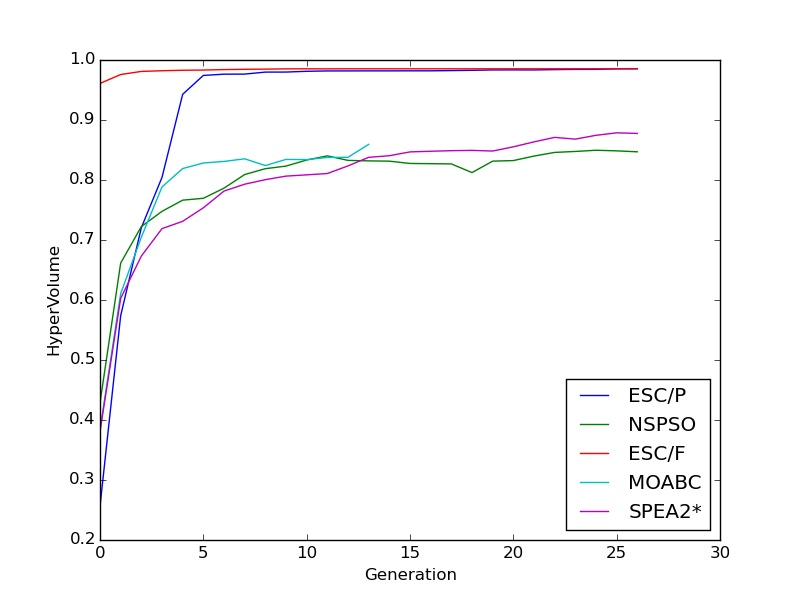
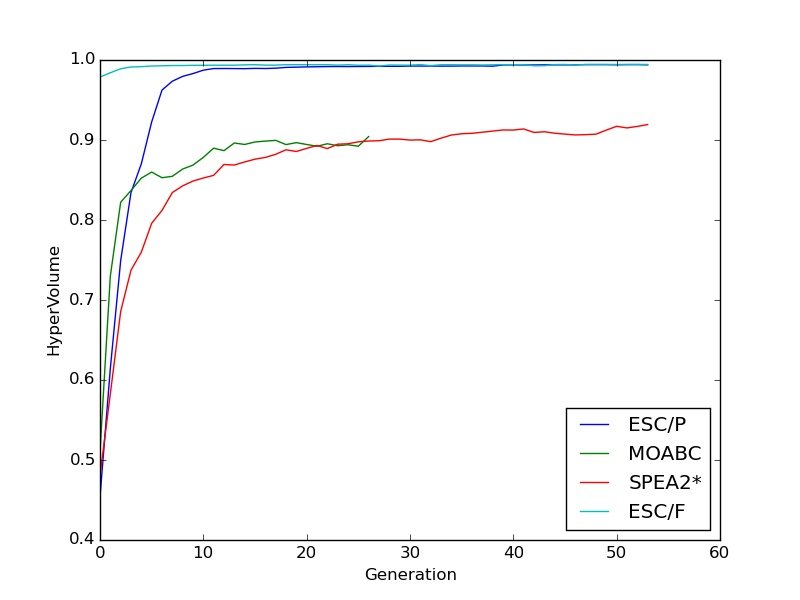
exp 0.1

diff --git a/analysis/pegasus.py b/analysis/pegasus.py
@@ -3,27 +3,27 @@ WORKFLOWS = [
 	{"dag":"Montage_25"			,"task_number":"default", "path":"", "app":"Montage"},
 	{"dag":"Montage_50"			,"task_number":"default", "path":"", "app":"Montage"},
 	{"dag":"Montage_100"		,"task_number":"default", "path":"", "app":"Montage"},
-	{"dag":"Montage_1000"		,"task_number":"default", "path":"", "app":"Montage"},
+	# {"dag":"Montage_1000"		,"task_number":"default", "path":"", "app":"Montage"},
 
 	{"dag":"Epigenomics_24"		,"task_number":"default", "path":"", "app":"Epigenomics"},
 	{"dag":"Epigenomics_46"		,"task_number":"default", "path":"", "app":"Epigenomics"},
 	{"dag":"Epigenomics_100"	,"task_number":"default", "path":"", "app":"Epigenomics"},
-	{"dag":"Epigenomics_997"	,"task_number":"default", "path":"", "app":"Epigenomics"},
+	# {"dag":"Epigenomics_997"	,"task_number":"default", "path":"", "app":"Epigenomics"},
 
 	{"dag":"CyberShake_30"		,"task_number":"default", "path":"", "app":"CyberShake"},
 	{"dag":"CyberShake_50"		,"task_number":"default", "path":"", "app":"CyberShake"},
 	{"dag":"CyberShake_100"		,"task_number":"default", "path":"", "app":"CyberShake"},
-	{"dag":"CyberShake_1000"	,"task_number":"default", "path":"", "app":"CyberShake"},
+	# {"dag":"CyberShake_1000"	,"task_number":"default", "path":"", "app":"CyberShake"},
 
 	{"dag":"Sipht_30"			,"task_number":"default", "path":"", "app":"SIPHT"},
 	{"dag":"Sipht_60"			,"task_number":"default", "path":"", "app":"SIPHT"},
 	{"dag":"Sipht_100"			,"task_number":"default", "path":"", "app":"SIPHT"},
-	{"dag":"Sipht_1000"			,"task_number":"default", "path":"", "app":"SIPHT"},
+	# {"dag":"Sipht_1000"			,"task_number":"default", "path":"", "app":"SIPHT"},
 
 	{"dag":"Inspiral_30"		,"task_number":"default", "path":"", "app":"LIGO"},
 	{"dag":"Inspiral_50"		,"task_number":"default", "path":"", "app":"LIGO"},
 	{"dag":"Inspiral_100"		,"task_number":"default", "path":"", "app":"LIGO"},
-	{"dag":"Inspiral_1000"		,"task_number":"default", "path":"", "app":"LIGO"},
+	# {"dag":"Inspiral_1000"		,"task_number":"default", "path":"", "app":"LIGO"},
 
 
 	# By numbers of tasks	

diff --git a/analysis/config.py b/analysis/config.py
@@ -11,14 +11,14 @@ arg_tags = {
 
 args_defaults = {
     "pop_size" : 16,
-    "gen_scale" : 10,
+    "gen_scale" : 20,
     "runtime_scale" : 1,
     "prob_xo" : 1,
     "prob_mu" : 1,
 }
 
 exp_defaults = {
-    "times" : 1,
+    "times" : 10,
     "args" : {}
 }
 
@@ -29,7 +29,7 @@ experiments = {
     "ESC/F":{"cmd":"spea2_c3_f",},
     "MOABC":{"cmd":"moabc"},
     # "NSPSO":{"cmd":"nspso"},
-    # "MOHEFT":{"times":1,"cmd":"moheft"},
+    "MOHEFT":{"times":1,"cmd":"moheft"},
 }
 
 ## DAG
